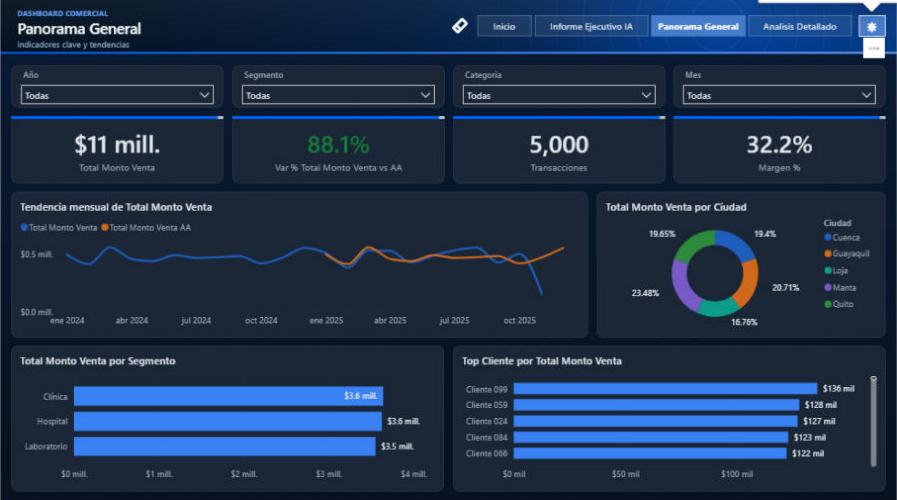
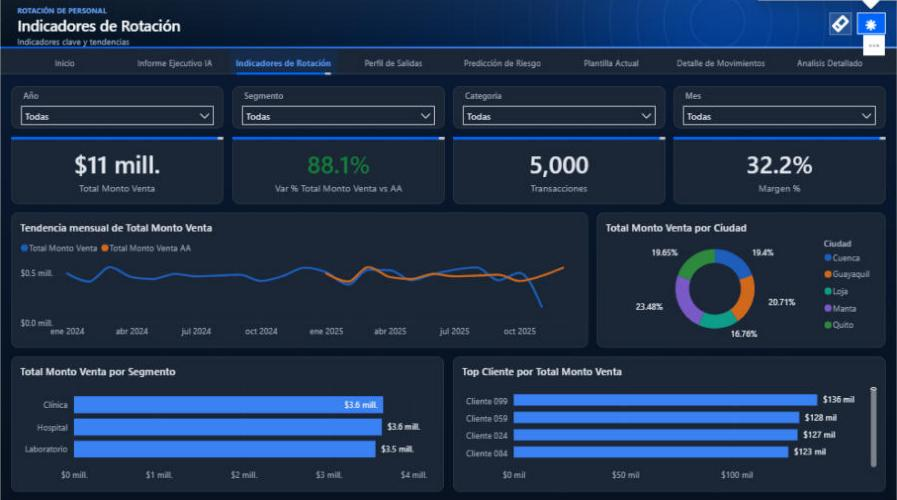
assena-powerbi-studio 0.6.0: encabezado de dos niveles con barra de pestañas
Con muchas paginas los botones del encabezado se amontonaban sobre el titulo y
cortaban los nombres. Ahora la banda (72 px) queda para titulo + controles y una
barra de pestañas de ancho completo muestra todas las paginas con anchos iguales,
pagina actual subrayada. Indice de portada en dos columnas con mas de 4 paginas.
Verificado en Power BI Desktop con 8 pestañas, en modo claro y oscuro.

diff --git a/plugins/assena-powerbi-studio/skills/assena-powerbi-studio/scripts/pbip_report.py b/plugins/assena-powerbi-studio/skills/assena-powerbi-studio/scripts/pbip_report.py
@@ -163,7 +163,7 @@ def button_objects(v, pal):
                  _sel({"fontColor": color(v.get("hoverFontColor", "#FFFFFF"))}, "hover")],
         "fill": [_sel({"show": lit(v.get("showFill", True))}),
                  _sel({"fillColor": color(bg), "transparency": lit(v.get("transparency", 0))}, "default"),
-                 _sel({"fillColor": color(hover_bg), "transparency": lit(0)}, "hover")],
+                 _sel({"fillColor": color(hover_bg), "transparency": lit(v.get("hoverTransparency", 0))}, "hover")],
         "outline": ([_sel({"show": lit(True)}),
                      _sel({"lineColor": color(v["outline"]), "weight": lit(v.get("outlineWeight", 1)),
                            "transparency": lit(v.get("outlineTransparency", 0)), "roundEdge": lit(v.get("roundEdge", 2))}, "default"),
@@ -446,7 +446,7 @@ def header_visual(page: dict, spec: dict, pal: dict, width: int, header_h: int, 
                 "dropShadow": [{"properties": {"show": lit(False)}}],
                 "title": [{"properties": {"show": lit(False)}}],
                 "visualHeader": [{"properties": {"show": lit(False)}}],
-                "padding": [{"properties": {"top": lit(12), "left": lit(24), "right": lit(24), "bottom": lit(0)}}],
+                "padding": [{"properties": {"top": lit(8), "left": lit(24), "right": lit(24), "bottom": lit(0)}}],
             },
         },
     }
@@ -659,12 +659,20 @@ def _cover_visuals(cover, spec, pal, targets, width, height, mode_ids):
     out.append(({"type": "text", "paragraphs": [{"text": "CONTENIDO DEL INFORME", "size": 9, "bold": True,
                                                  "color": C["sub"]}]}, L, 380, 400, 22))
     n = max(len(targets), 1)
-    bh = 44 if n <= 4 else max(30, int(200 / n))
+    # indice: 1 columna hasta 4 paginas; 2 columnas para mas (sin invadir el pie)
+    cols = 1 if n <= 4 else 2
+    rows = (n + cols - 1) // cols
+    gap = 8
+    avail = (height - 76) - 406
+    bh = min(44, int((avail - gap * (rows - 1)) / rows))
+    cw = 470 if cols == 1 else 274
     for i, (pid, label) in enumerate(targets):
-        out.append(({"type": "button", "text": "%02d     %s" % (i + 1, label), "target": pid, "fontSize": 12,
+        c, r = (i // rows, i % rows) if cols == 2 else (0, i)
+        out.append(({"type": "button", "text": "%02d   %s" % (i + 1, label), "target": pid,
+                     "fontSize": 12 if cols == 1 else 10,
                      "align": "left", "fill": "#FFFFFF", "transparency": 93, "fontColor": "#FFFFFF",
                      "hoverFill": C["accent"], "outline": "#FFFFFF", "outlineTransparency": 72, "hoverOutline": C["accent"]},
-                    L, 406 + i * (bh + 8), 470, bh))
+                    L + c * (cw + 10), 406 + r * (bh + gap), cw, bh))
     # --- panel de cristal derecho
     pw, ph = 400, 476
     px, py = width - L - pw, 128
@@ -704,35 +712,46 @@ def _tooltip_visuals(tt, w, h):
             for i, r in enumerate(refs)]
 
 
-def _nav_items(pal, header_h, width, entries, current, toggle_target, toggle_to_dark, has_slicers):
-    """Barra de navegacion propia en el encabezado: Inicio + paginas (la actual
-    resaltada), boton limpiar filtros y boton de tema claro/oscuro."""
-    nh = 30
-    ny = (header_h - nh) // 2
-    items, x = [], width - 16
-    tw = 38
-    x -= tw
-    items.append(({"type": "button", "text": "☾" if toggle_to_dark else "☀", "target": toggle_target, "fontSize": 13,
-                   "fill": "#FFFFFF", "transparency": 88, "fontColor": "#FFFFFF", "hoverFill": pal["accent"],
-                   "outline": "#FFFFFF", "outlineTransparency": 60,
-                   "tooltipText": "Cambiar a modo oscuro" if toggle_to_dark else "Cambiar a modo claro"}, x, ny, tw, nh))
-    x -= 10
-    for label, pid in reversed(entries):
-        bw = max(78, int(len(label) * 6.6) + 30)
-        x -= bw
-        sel = pid == current
-        items.append(({"type": "button", "text": label, "target": pid, "fontSize": 10, "bold": sel,
-                       **({"action": "none"} if sel else {}),
-                       "fill": pal["accent"] if sel else "#FFFFFF", "transparency": 0 if sel else 92,
-                       "fontColor": "#FFFFFF" if sel else "#E2E8F0", "hoverFill": pal["accent"],
-                       "outline": "#FFFFFF" if not sel else pal["accent"], "outlineTransparency": 70 if not sel else 0},
-                      x, ny, bw, nh))
-        x -= 4
+def _nav_items(pal, band_h, tab_h, width, entries, current, toggle_target, toggle_to_dark, has_slicers, accent,
+               show_toggle=True):
+    """Encabezado de dos niveles:
+    - banda superior: titulo (izquierda) + controles (limpiar filtros, tema) a la derecha;
+    - barra de pestanas a todo el ancho: una pestana por pagina, anchos iguales, la
+      actual con subrayado de acento. Escala bien con muchas paginas."""
+    items = []
+    nh = 32
+    ny = (band_h - nh) // 2
+    x = width - 16
+    if show_toggle:
+        x -= 40
+        items.append(({"type": "button", "text": "\u263e" if toggle_to_dark else "\u2600", "target": toggle_target,
+                       "fontSize": 14, "fill": "#FFFFFF", "transparency": 88, "fontColor": "#FFFFFF", "hoverFill": accent,
+                       "outline": "#FFFFFF", "outlineTransparency": 60}, x, ny, 40, nh))
     if has_slicers:
-        x -= nh + 6
+        x -= 8 + nh
         items.append(({"type": "button", "action": "clearSlicers", "icon": "clearAllSlicers", "text": "",
-                       "fill": "#FFFFFF", "transparency": 100, "fontColor": pal["headerText"],
-                       "hoverFill": pal["accent"]}, x, ny, nh, nh))
+                       "fill": "#FFFFFF", "transparency": 88, "fontColor": "#FFFFFF", "hoverFill": accent,
+                       "outline": "#FFFFFF", "outlineTransparency": 60}, x, ny, nh, nh))
+    # barra de pestanas
+    n = max(len(entries), 1)
+    m = 16
+    tw = (width - 2 * m) / n
+    fs = 10 if n <= 7 else (9 if n <= 10 else 8)
+    ty = band_h + 3
+    th = tab_h - 3
+    dark = pal.get("mode") == "dark"
+    sel_col = _lighten(accent, 0.35) if dark else accent
+    for i, (label, pid) in enumerate(entries):
+        sel = pid == current
+        tx = m + i * tw
+        items.append(({"type": "button", "text": label, "target": pid, "fontSize": fs, "bold": sel,
+                       **({"action": "none"} if sel else {}),
+                       "fill": accent, "transparency": 90 if sel else 100,
+                       "fontColor": sel_col if sel else pal["textMuted"],
+                       "hoverFill": accent, "hoverTransparency": 85, "hoverFontColor": sel_col},
+                      tx, ty, tw - 2, th))
+        if sel:
+            items.append(({"type": "text", "text": "", "background": accent}, tx + 10, band_h + tab_h - 3, tw - 22, 3))
     return items
 
 
@@ -765,7 +784,10 @@ def build_pages(report_dir: Path, spec: dict, model: dict, pal: dict, log, repla
     res = FieldResolver(model)
     canvas = spec.get("canvas", {})
     width, height = canvas.get("width", 1280), canvas.get("height", 720)
-    header_h = canvas.get("headerHeight", 80)
+    band_h = canvas.get("bandHeight", 72)          # banda de titulo
+    tab_h = canvas.get("tabHeight", 38)            # barra de pestanas
+    nav_on = spec.get("navigation", True)
+    header_h = band_h + (tab_h if nav_on else 0)
     vc = versions["visualContainer"]
 
     cover = spec.get("cover") or None
@@ -820,7 +842,8 @@ def build_pages(report_dir: Path, spec: dict, model: dict, pal: dict, log, repla
         if spec.get("pageBackground", True):
             from backgrounds import page_png
             page_img = "Fondo_%s_%s.png" % (pal.get("id", "tema"), mode)
-            register_image(report_dir, page_img, page_png(P, brand_accent, header_h / height))
+            register_image(report_dir, page_img, page_png(P, brand_accent, band_h / height,
+                                                          tab_frac=(tab_h / height) if nav_on else 0.0))
         for k, (pid, page) in enumerate(content):
             ph = page.get("height", height)
             pdir = pages_dir / pid
@@ -830,7 +853,7 @@ def build_pages(report_dir: Path, spec: dict, model: dict, pal: dict, log, repla
             hh = header_h if page.get("header", True) else 0
             n = 0
             if hh:
-                hv = header_visual(page, spec, P, width, hh, vc, pid, transparent=bool(page_img) and ph == height)
+                hv = header_visual(page, spec, P, width, band_h, vc, pid, transparent=bool(page_img) and ph == height)
                 _write_json(pdir / "visuals" / hv["name"] / "visual.json", hv)
                 n += 1
             items = []
@@ -842,11 +865,11 @@ def build_pages(report_dir: Path, spec: dict, model: dict, pal: dict, log, repla
             for (v, x, y, w, h) in list(items):
                 if v.get("type") == "card" and not v.get("background"):
                     items.append(({"type": "text", "text": "", "background": brand_accent}, x, y, w, 4))
-            if hh and page.get("navigation", spec.get("navigation", True)):
+            if hh and nav_on and page.get("navigation", True):
                 slicers = any(it[0].get("type") == "slicer" for it in items)
-                items += _nav_items(P, hh, width, entries, pid, other["pages"][k][0] if toggle else pid,
-                                    mode == "light", slicers) if toggle else \
-                    _nav_items(P, hh, width, entries, pid, pid, True, slicers)[1:]
+                items += _nav_items(P, band_h, tab_h, width, entries, pid,
+                                    other["pages"][k][0] if toggle else pid, mode == "light", slicers,
+                                    brand_accent, show_toggle=toggle)
             n += write(pdir, items, P, dark)
             log("  + pagina '%s' [%s] (%d visuales)" % (page["name"], mode, n))
             (hidden if dark else order).append(pid)

diff --git a/plugins/assena-powerbi-studio/skills/assena-powerbi-studio/scripts/backgrounds.py b/plugins/assena-powerbi-studio/skills/assena-powerbi-studio/scripts/backgrounds.py
@@ -129,7 +129,8 @@ def cover_png(pal: dict, w: int = 1600, h: int = 900, style: str = "aurora", see
     return _png(w, h, rows)
 
 
-def page_png(P: dict, accent: str, header_frac: float = 68 / 720, w: int = 1600, h: int = 900, seed: int = 11) -> bytes:
+def page_png(P: dict, accent: str, header_frac: float = 64 / 720, w: int = 1600, h: int = 900, seed: int = 11,
+             tab_frac: float = 0.0) -> bytes:
     """Fondo de pagina de contenido: banda superior con degradado (color de
     encabezado -> azul de marca), resplandor y ondas a la derecha, linea de
     acento inferior; cuerpo con el fondo de la paleta y un leve degradado."""
@@ -146,6 +147,9 @@ def page_png(P: dict, accent: str, header_frac: float = 68 / 720, w: int = 1600,
     cx, cy = 0.80 * w, hb * 0.5
     r0, step, nr = 0.03 * w, 0.03 * w, 10
     line_h = max(3, int(h * 0.004))
+    ht = int(round(h * tab_frac))           # franja de pestañas bajo la banda
+    surf = _rgb(P["surface"])
+    border = _rgb(P["border"])
     rows = []
     for y in range(h):
         row = bytearray()
@@ -167,6 +171,10 @@ def page_png(P: dict, accent: str, header_frac: float = 68 / 720, w: int = 1600,
                 c = _mix(c, [1, 1, 1], 0.05 * (1 - y / hb))
             elif y < hb + line_h:
                 c = _mix(acc, _mix(acc, [1, 1, 1], 0.45), fx)  # linea de acento
+            elif ht and y < hb + ht:
+                c = surf                                        # franja de pestañas
+            elif ht and y < hb + ht + 2:
+                c = border                                      # borde inferior de la franja
             else:
                 t = (y - hb) / (h - hb)
                 c = _mix(body_top, body_bot, t)

diff --git a/plugins/assena-powerbi-studio/skills/assena-powerbi-studio/scripts/drafter.py b/plugins/assena-powerbi-studio/skills/assena-powerbi-studio/scripts/drafter.py
@@ -327,7 +327,7 @@ def draft_spec(summary: dict, profile: dict | None = None, palette: str = "corpo
         "title": title or "Dashboard %s" % F,
         "subtitle": "Tablero interactivo de %s" % F.lower(),
         "palette": palette,
-        "canvas": {"width": 1280, "height": 720, "headerHeight": 80},
+        "canvas": {"width": 1280, "height": 720, "bandHeight": 72, "tabHeight": 38},
         "cover": {"title": title or "Dashboard %s" % F, "subtitle": "Tablero interactivo de %s" % F.lower(),
                   "description": "Explora los indicadores clave, tendencias y el detalle por categoria. "
                                  "Usa los botones para navegar y los filtros de cada pagina para profundizar.",

diff --git a/plugins/assena-powerbi-studio/CHANGELOG.md b/plugins/assena-powerbi-studio/CHANGELOG.md
@@ -1,5 +1,16 @@
 # Changelog — ASSENA Power BI Studio
 
+## 0.6.0 — 2026-11-09
+- **Encabezado de dos niveles** (escala a muchas paginas): banda de titulo de 72 px
+  (eyebrow, titulo y subtitulo sin recortes; controles limpiar filtros y ☀/☾ a la
+  derecha) + **barra de pestañas** de 38 px a todo el ancho con una pestaña por pagina
+  (anchos iguales, tipografia que se ajusta con 8+ paginas, pagina actual con
+  subrayado y tinte de acento). Antes los botones se amontonaban sobre el titulo.
+- Portada: el indice de contenido pasa a **dos columnas** cuando hay mas de 4 paginas
+  y nunca invade el pie.
+- Fondo de pagina: franja de pestañas integrada (superficie + borde) en claro y oscuro.
+- Spec: `canvas.bandHeight` y `canvas.tabHeight` reemplazan a `headerHeight`.
+
 ## 0.5.1 — 2026-11-09
 - Corregido: `colorMeasure` en graficos `bar`/`column` no coloreaba cada barra. El `dataPoint` ahora incluye el selector `dataViewWildcard` (matchingOption 1) que Power BI exige para el formato condicional por punto. Verificado en Power BI Desktop.
 

diff --git a/plugins/assena-powerbi-studio/skills/assena-powerbi-studio/references/design-system.md b/plugins/assena-powerbi-studio/skills/assena-powerbi-studio/references/design-system.md
@@ -3,9 +3,10 @@
 ## Lienzo y grilla
 - Pagina 1280×720 (16:9), *Ajustar a pagina*. Paginas largas: alto 1100–1400 con scroll.
 - Grilla 12 columnas · margen 16 px · separacion 12 px (la aplica `apply`).
-- Encabezado de 80 px: banda en degradado (encabezado de la paleta -> azul de marca) con
-  ondas y linea de acento, pintada como imagen de fondo de pagina; eyebrow 8 pt,
-  titulo 16 pt y subtitulo 9 pt; a la derecha, botones de navegacion y tema.
+- Encabezado de dos niveles: banda de 72 px en degradado (encabezado de la paleta ->
+  azul de marca) con ondas y linea de acento (eyebrow 8 pt, titulo 16 pt, subtitulo 9 pt,
+  controles a la derecha) + barra de pestañas de 38 px a todo el ancho, una pestaña por
+  pagina con anchos iguales; la actual con subrayado de acento. Escala a 8+ paginas.
 - Fondo de pagina `background` (gris muy claro) y tarjetas `surface` blancas con
   borde suave, radio 6 px y sombra sutil; KPIs con franja de acento superior de 4 px.
 - Botones: rectangulares, borde de 1 px, esquinas de 2 px; activo relleno de acento.

diff --git a/README.md b/README.md
@@ -13,7 +13,7 @@ plugin independiente que puedes instalar en segundos, usar y mejorar.
 ## Skills disponibles
 | Skill | Version | Que hace |
 |---|---|---|
-| [assena-powerbi-studio](plugins/assena-powerbi-studio) | 0.5.1 | Convierte un proyecto de Power BI en blanco (conectado a tu BD) en un dashboard profesional: medidas DAX, calendario, portada, navegacion, modo claro/oscuro, tooltips y resumen ejecutivo con IA. |
+| [assena-powerbi-studio](plugins/assena-powerbi-studio) | 0.6.0 | Convierte un proyecto de Power BI en blanco (conectado a tu BD) en un dashboard profesional: medidas DAX, calendario, portada, navegacion, modo claro/oscuro, tooltips y resumen ejecutivo con IA. |
 
 ## Instalar en Claude Code
 ```bash

diff --git a/plugins/assena-powerbi-studio/skills/assena-powerbi-studio/references/spec-format.md b/plugins/assena-powerbi-studio/skills/assena-powerbi-studio/references/spec-format.md
@@ -10,7 +10,7 @@ o `[Medida]` (las medidas se buscan en todo el modelo).
   "subtitle": "Fuente: ERP · actualizacion diaria",      // subtitulo por defecto de paginas
   "palette": "corporativo",                          // ver: assena_bi.py palettes
   "paletteOverrides": { "header": "#2F52A0", "accent": "#25D366" },  // opcional (marca cliente)
-  "canvas": { "width": 1280, "height": 720, "headerHeight": 68 },
+  "canvas": { "width": 1280, "height": 720, "bandHeight": 72, "tabHeight": 38 },
   "schemaVersions": { "visualContainer": "2.0.0", "page": "2.0.0" },  // opcional
   "model": {
     "calendar": {                       // opcional: crea tabla de fechas DAX (Año, Trimestre, Mes, Año Mes, Dia Semana…)
